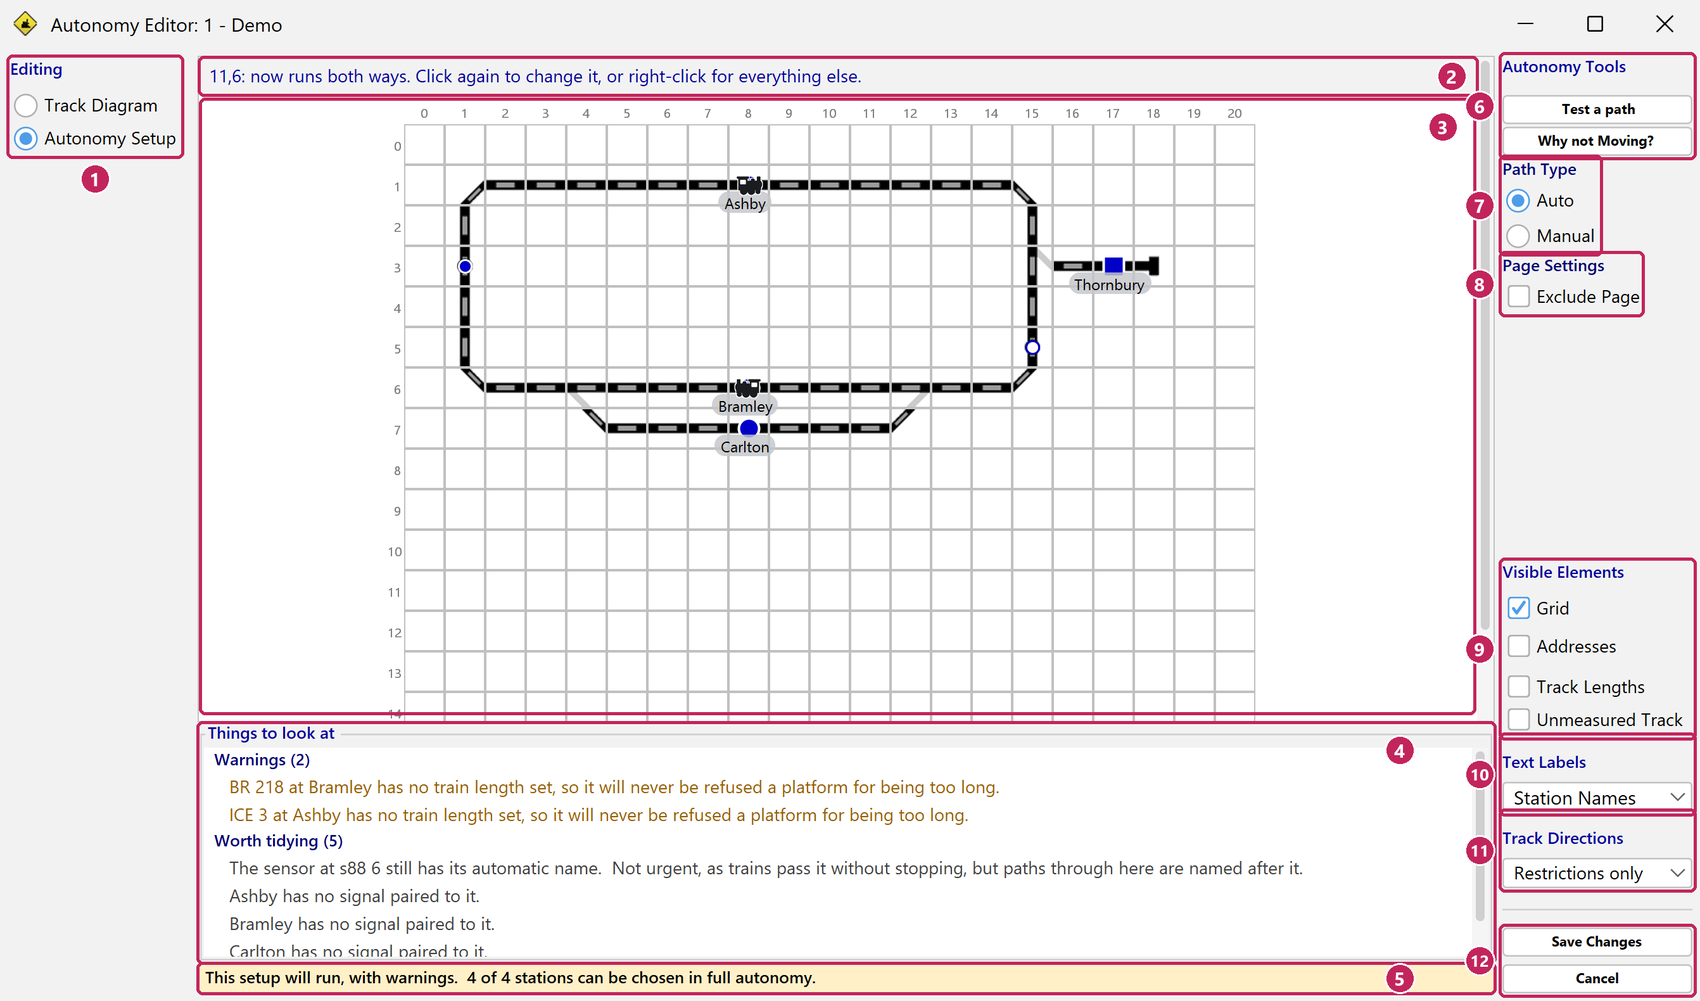
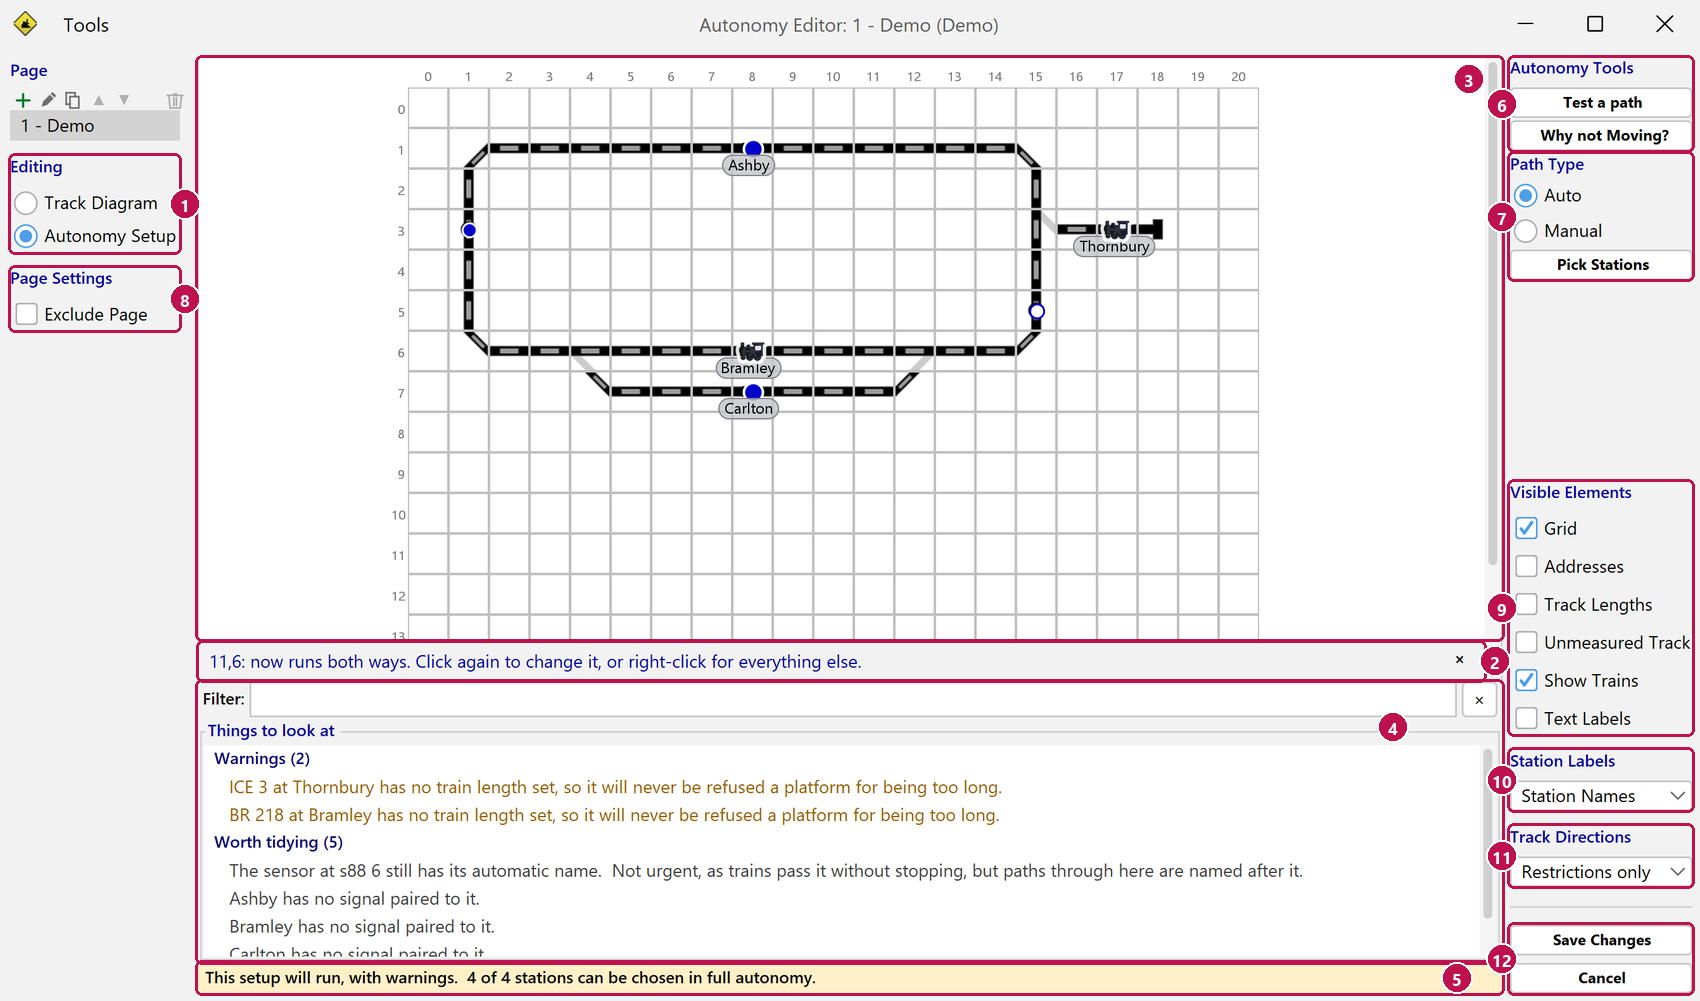
Docs: 3.1.0 pictures for the autonomy guide and Readme
Retaken editor, station menu, terminus and arrivals pictures; the locomotive key menu and accessory keyboard; new Locomotive Settings and Station Settings pictures with their Readme places.

Changed region(s): [[0.0, 0.0, 1.0, 1.0], [0.4053, 0.0, 0.5924, 0.031]]

diff --git a/Readme.md b/Readme.md
@@ -52,6 +52,10 @@ Right-click a locomotive button for its quick actions, such as function and spee
 
 ![Right-click menu on a locomotive button, showing options for function presets, preferred speed, and multi-unit setup](assets/ui_right_click.png?raw=true)
 
+The Locomotive Settings window, on its `Basic Settings` tab, with the locomotive's name, address, decoder and picture.
+
+![The Locomotive Settings window on its Basic Settings tab, with the name, decoder type, address, preset speed and picture of a locomotive](assets/locomotive_settings.png?raw=true)
+
 ![TrainControl locomotive selector, used to assign a locomotive from the database to a keyboard button](assets/ui_sel_loc.png?raw=true)
 
 Multi-units can be configured in TrainControl, which can be simpler than using the Central Station.
@@ -108,6 +112,10 @@ You need S88 sensors (at least one per station) and digital switches; signals ar
 **Full guide:** [The autonomy editor: a user guide](Automation.md)
 
 ![The autonomy editor: the track diagram with its stations named, a list of things to look at below it, and tools and settings on the right](assets/autonomy_editor3.png?raw=true)
+
+A station's settings are all in one window, beside a picture of the station and a table of what trains may do there.
+
+![The Station Settings window for a station called Bramley, with its name, what trains may do there, which sides trains may arrive from, and a picture of the station](assets/station_settings.png?raw=true)
 
 ![A train running under autonomy on the track diagram: its route ahead in blue, the track it has passed and still holds in dark gray, and a second train standing at its station](assets/autonomy3.png?raw=true)
 

diff --git a/Automation.md b/Automation.md
@@ -363,7 +363,7 @@ The simplest arrangement that runs: two stations, one train, one piece of track 
 
 **C. Put the train somewhere.** Right-click Station A and choose `Place a Locomotive Here...`, then pick the train in the `Train` list. This is a statement of fact about your layout: the train really does need to be standing at A.
 
-![Steps A to C on a station's right-click menu: Station Settings..., and Place a Locomotive Here...](assets/automation/04-station-menu.png)
+![Steps A and C on a station's right-click menu: Station Settings..., and Place a Locomotive Here...](assets/automation/04-station-menu.png)
 
 **D. Save.** `Save Changes`, at the bottom of the editor's right-hand column.
 
